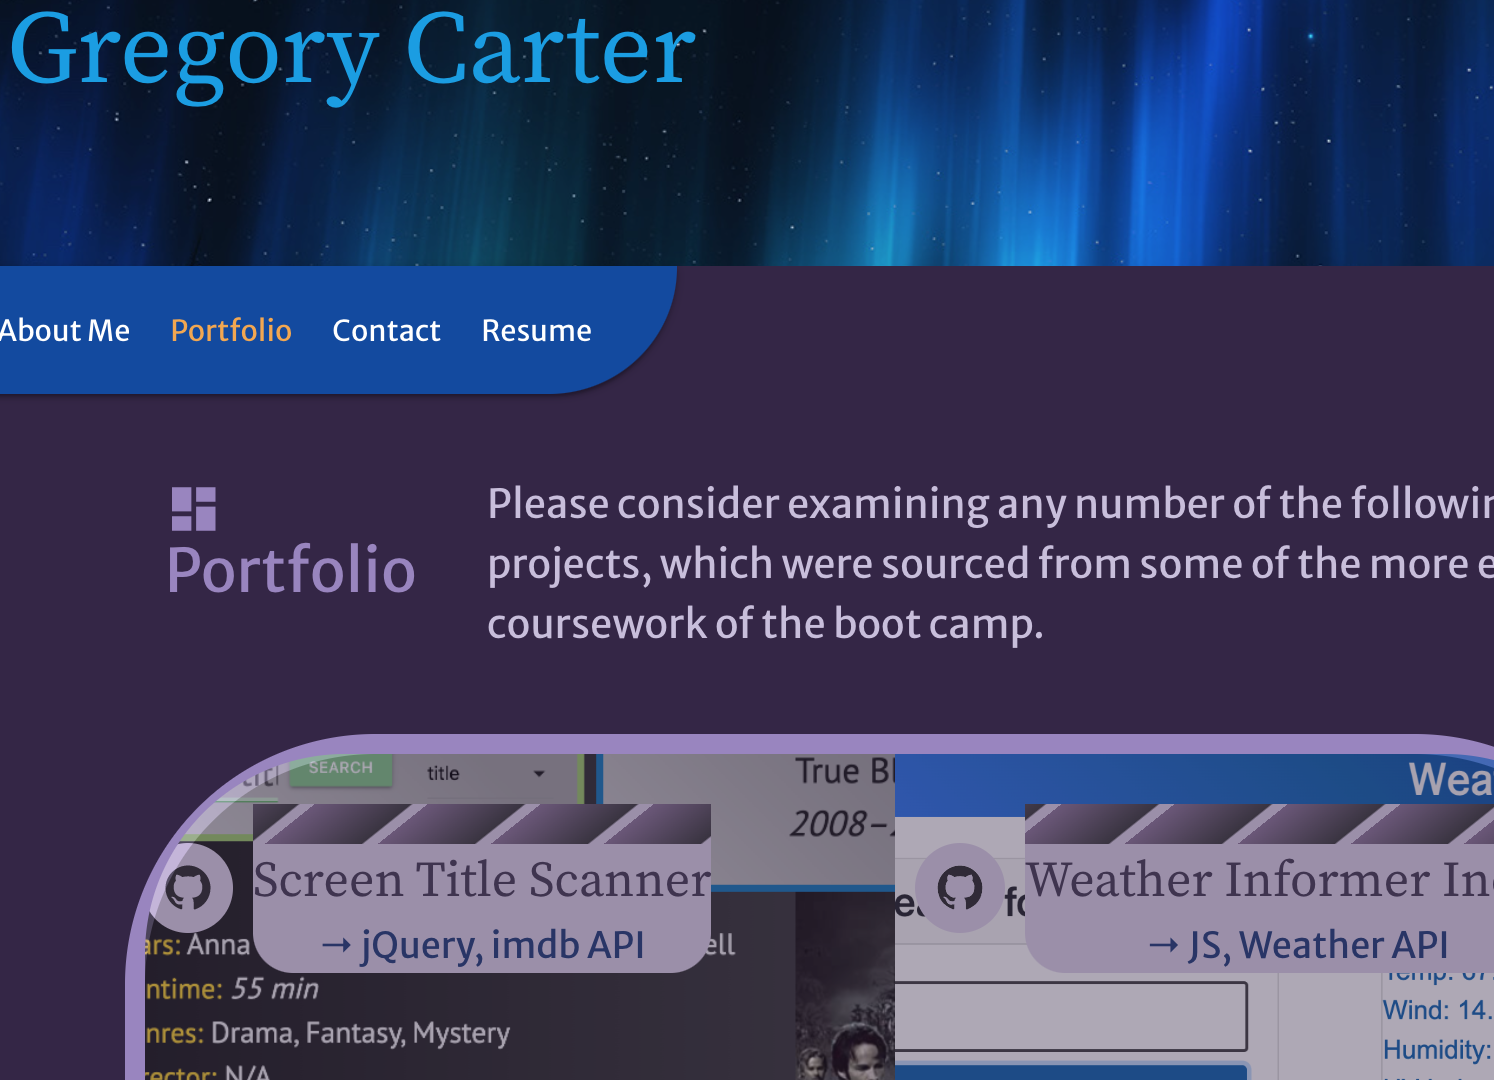
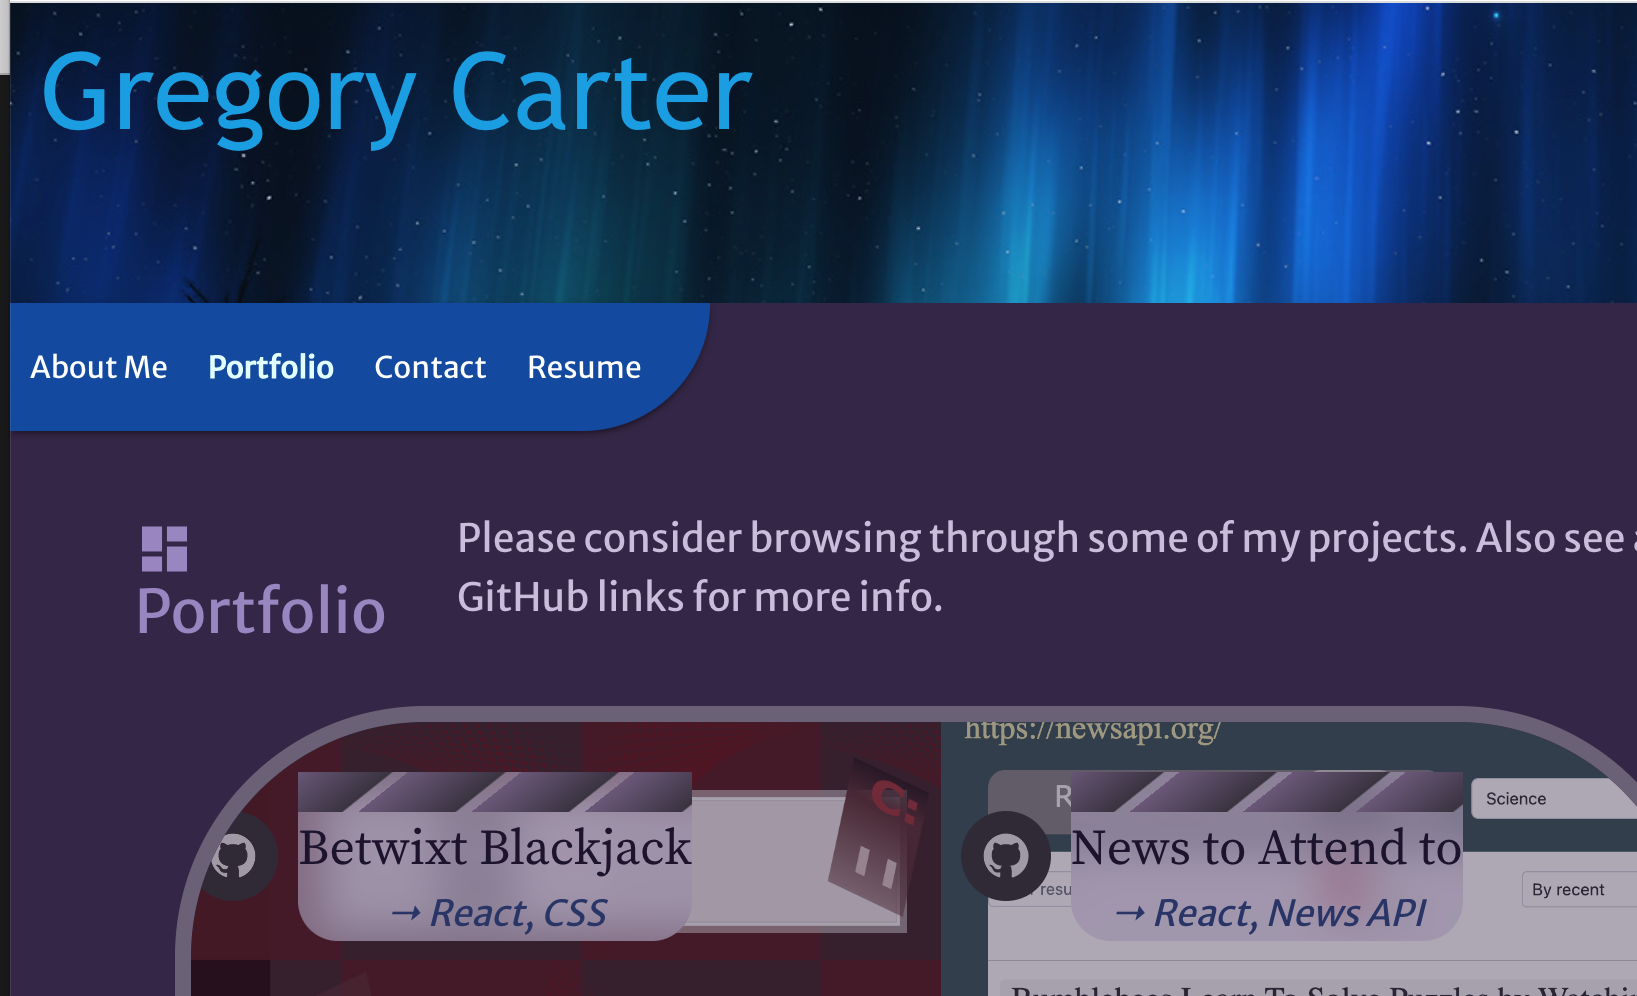
misc. update

diff --git a/src/App.js b/src/App.js
@@ -16,10 +16,10 @@ function App() {
   const [categories] = useState([
     {
       section: 'About Me',
-      description: 'Web developer with a thoughtful and positive perspective. Possesses a strong foundation in React.js and JavaScript. Gained experience across various topics during a full stack boot camp. Proficiencies include HTML5, CSS3, Node.js, Bootstrap, Redux, RESTful API, GraphQL, and jQuery.',
+      description: 'Web developer with a thoughtful and positive perspective. Possesses a strong foundation in JavaScript and React. Gained experience during completion of a full stack boot camp. Proficiencies include HTML5, CSS3, Node.js, Bootstrap, Redux, Python, RESTful API, and jQuery.',
       icon: 'account_circle' 
     },
-    { section: 'Portfolio', description: 'Please consider browsing through some of my projects. Also see additional GitHub links for more info. Heroku pages may take a few seconds to load.', icon:'dashboard' },
+    { section: 'Portfolio', description: 'Please consider browsing through some of my projects. Also see additional GitHub links for more info.', icon:'dashboard' },
     { section: 'Contact', description: 'Use this form to contact me with any questions or inquiries.', icon:'message' },
     { section: 'Resume', description: 'This resume reflects upon my acquired skills and qualifications.', icon:'note' },
   ]);

diff --git a/src/index.css b/src/index.css
@@ -1,6 +1,6 @@
 :root {
   --primary: #8c54ff;
-  --secondary: #acfeeb;
+  --secondary: lightcyan;
   --bg: #342547;
   --test: #2d2d2d;
 }
@@ -112,6 +112,29 @@ textarea {
 .navActive {
   color: var(--secondary);
   font-weight: bold;
+}
+
+@keyframes pulse-blue {
+  0% {
+    border-radius: 10px;
+    transform: scale(0.95);
+    box-shadow: 0 0 0 0 rgba(52, 172, 224, 0.7);
+  }
+  
+  70% {
+    border-radius: 15px;
+    transform: scale(1);
+    box-shadow: 0 0 0 10px rgba(52, 172, 224, 0);
+  }
+  
+  100% {
+    transform: scale(0.95);
+    box-shadow: 0 0 0 0 rgba(52, 172, 224, 0);
+  }
+}
+
+.navGlow {
+  animation: pulse-blue 2s infinite;
 }
 
 .iconHover, .socialHover {
@@ -316,6 +339,7 @@ button:hover {
 .blackjack {
   background-image: url("./assets/images/blackjack.png");
   background-size: cover;
+  background-position-x: -10px;
   opacity: .6;
 }
 
@@ -324,7 +348,7 @@ button:hover {
 }
 
 .citizenship {
-  background-image: url("./assets/images/thoughtbubbleboards.png");
+  background-image: url("./assets/images/tbbscreen.png");
   background-size: cover;
   opacity: .6;
 }
@@ -334,8 +358,9 @@ button:hover {
 }
 
 .thought {
-  background-image: url("./assets/images/ntatproject.png");
+  background-image: url("./assets/images/newsTATscreen.png");
   background-size: cover;
+  background-position-y: -18px;
   opacity: .6;
 }
 

diff --git a/src/components/Navigation/index.js b/src/components/Navigation/index.js
@@ -37,7 +37,7 @@ function Nav(props) {
                   }`}
                 key={category.section}
               >
-                <span className='navStyle fontOne' onClick={() => { 
+                <span className={currentCategory.section === category.section ? 'navStyle fontOne navGlow' : 'navStyle fontOne'} onClick={() => { 
                     return (setCurrentCategory(category),
                     category.section === 'About Me' && (setShowPortfolio(false), setShowContact(false), setShowResume(false), setShowAbout(true)),
                     category.section === 'Portfolio' && (setShowAbout(false), setShowContact(false), setShowResume(false), setShowPortfolio(true)),
